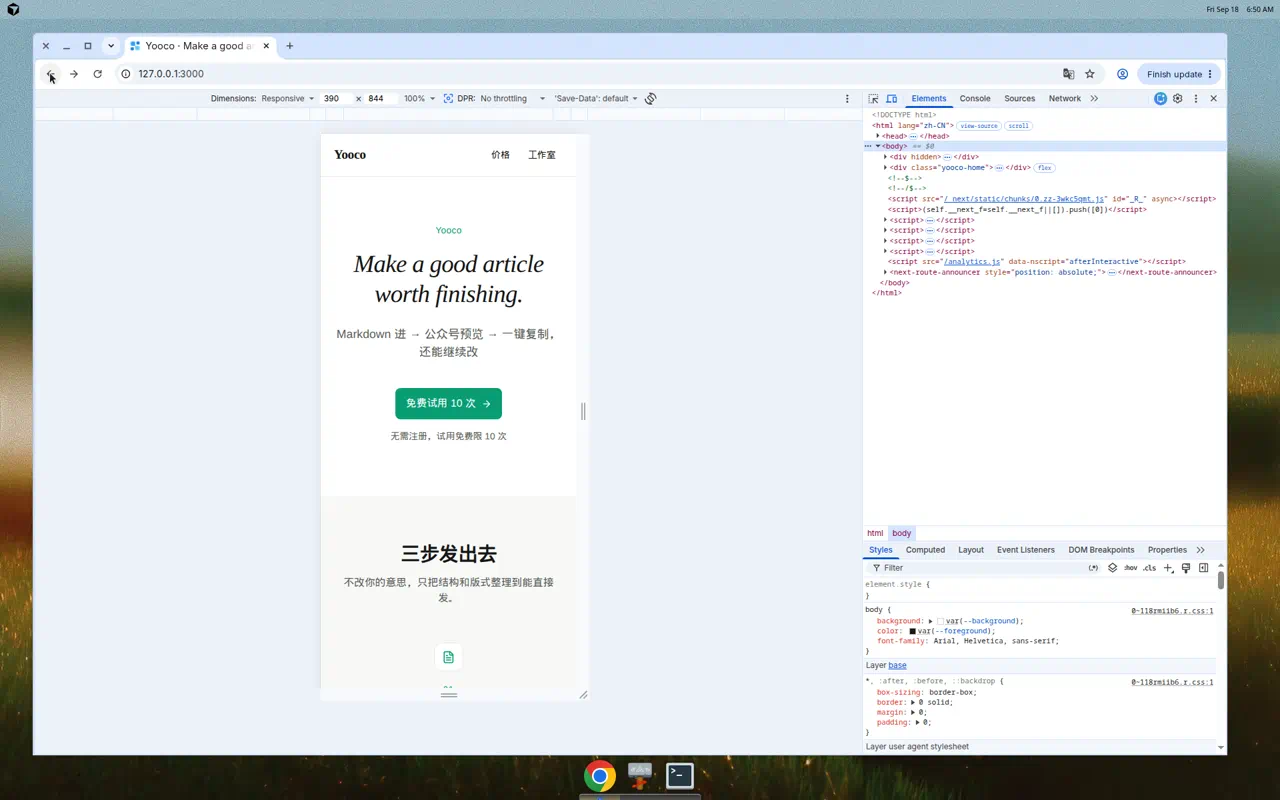
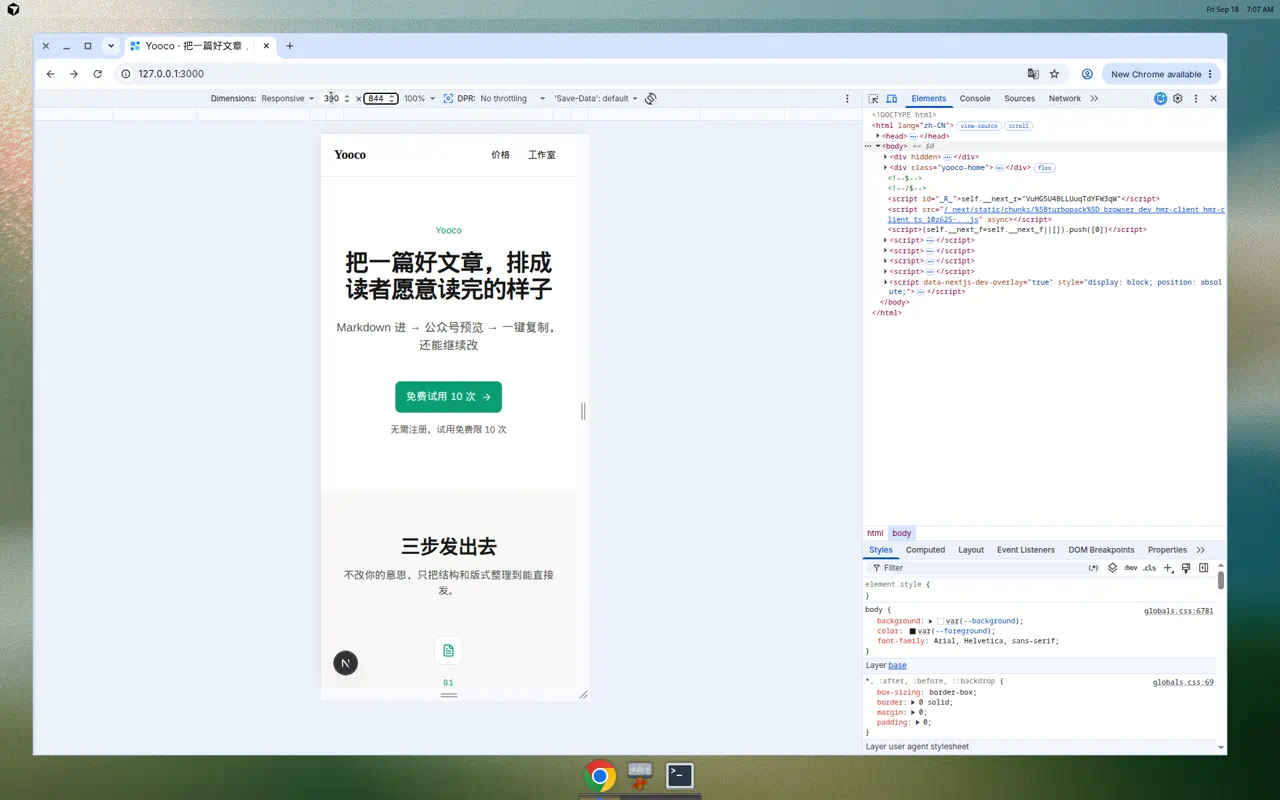
docs: 更新首页主句中文预览截图
桌面和窄屏 hero 截图改为中文主句，方便对照验收。

diff --git a/handoff-log.md b/handoff-log.md
@@ -17,8 +17,8 @@
 
 - 想做什么：增长/内容反馈纯英文 H1 不利于公众号作者第一眼理解，主句改回中文。
 - 做成了什么：H1 改为「把一篇好文章，排成读者愿意读完的样子」；hero 不再放英文；字体用站点已有中文友好衬线栈，不用 Playfair italic。绿色试用 CTA、三档价、退款小字、visit/trial_click 未动。
-- 改了哪些文件：`app/home-landing.tsx`、`app/home.css`、`app/layout.tsx`、`handoff-log.md`。
-- 如何验证：打开 `/` 主句为中文；点「免费试用 10 次」仍进工作室；构建通过。
+- 改了哪些文件：`app/home-landing.tsx`、`app/home.css`、`app/layout.tsx`、`docs/pr-preview/homepage_hero_desktop.webp`、`docs/pr-preview/homepage_hero_mobile.webp`、`handoff-log.md`。
+- 如何验证：打开 `/` 主句为中文；点「免费试用 10 次」仍进工作室；`npm run build` 与 `npm run build:edgeone` 通过。
 - 待办/风险：无。
 
 ### 2026-09-18 主句改英文 Playfair italic
